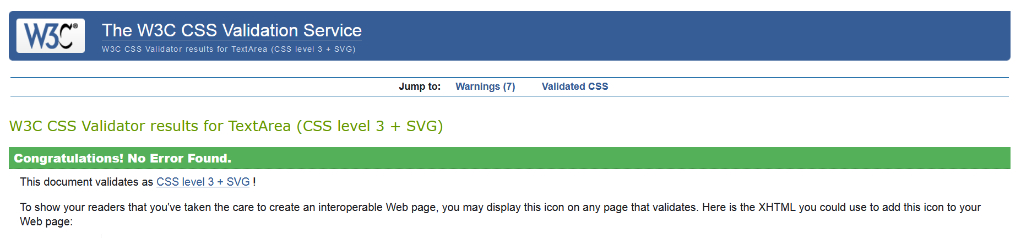
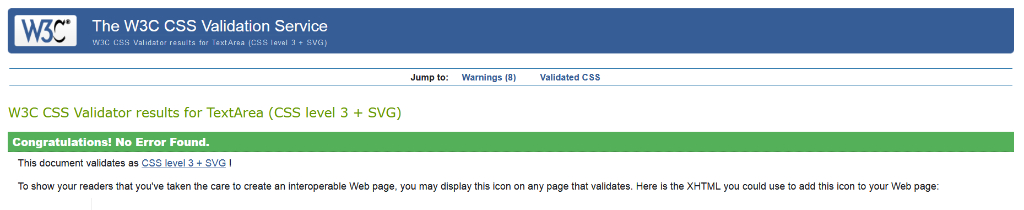
Update CSS validation

diff --git a/static/css/style.css b/static/css/style.css
@@ -91,7 +91,8 @@ h1 {
     word-wrap: break-word;
 }
 
-/* visually-hidden class code borrowed from Bootstrap framework */
+/* visually-hidden class code borrowed from Bootstrap framework:  */
+/* https://getbootstrap.com/docs/5.0/helpers/visually-hidden/ */
 /* Visually hides page elements while keeping them available to accessibility tools */
 .visually-hidden {
     position: absolute !important;

diff --git a/TESTING.md b/TESTING.md
@@ -44,9 +44,19 @@ In my case, the collapsible header is an interactive element which opens and clo
 
 ### CSS Validation
 
-CSS validation passed with no errors or warnings.
+CSS validation passed with no errors.
 
 ![CSS validation screenshot](documentation/testing-images/css-validation/css-validation.jpg)
+
+8 warnings were returned:
+
+![CSS warnings](documentation/testing-images/css-validation/css-warnings.jpg)
+
+The first of these warnings, that "the property clip is deprecated" refers to the 'visually-hidden' class that I borrowed from the Bootstrap framework. This class hides elements from the visual flow of the document, but keeps them accessible to assistive technologies like screenreaders.
+
+There are a few threads discussing this issue on the Bootstrap GitHub page (such as [this one](https://github.com/twbs/bootstrap/issues/27177)) and it seems that although `clip` is officially deprecated, it is more widely supported by browsers that its replacement, `clip-path`. The site caniuse.com lists [full support for clip](https://caniuse.com/mdn-css_properties_clip) from most browsers, but only [partial support for clip-path](https://caniuse.com/mdn-css_properties_clip). I chose to stick with the Bootstrap implementation of the visually-hidden class on this basis.
+
+The other seven warnings only refer to vendor prefixes, which are provided as fallbacks for some css properties.
 
 ### Javascript Validation
 
